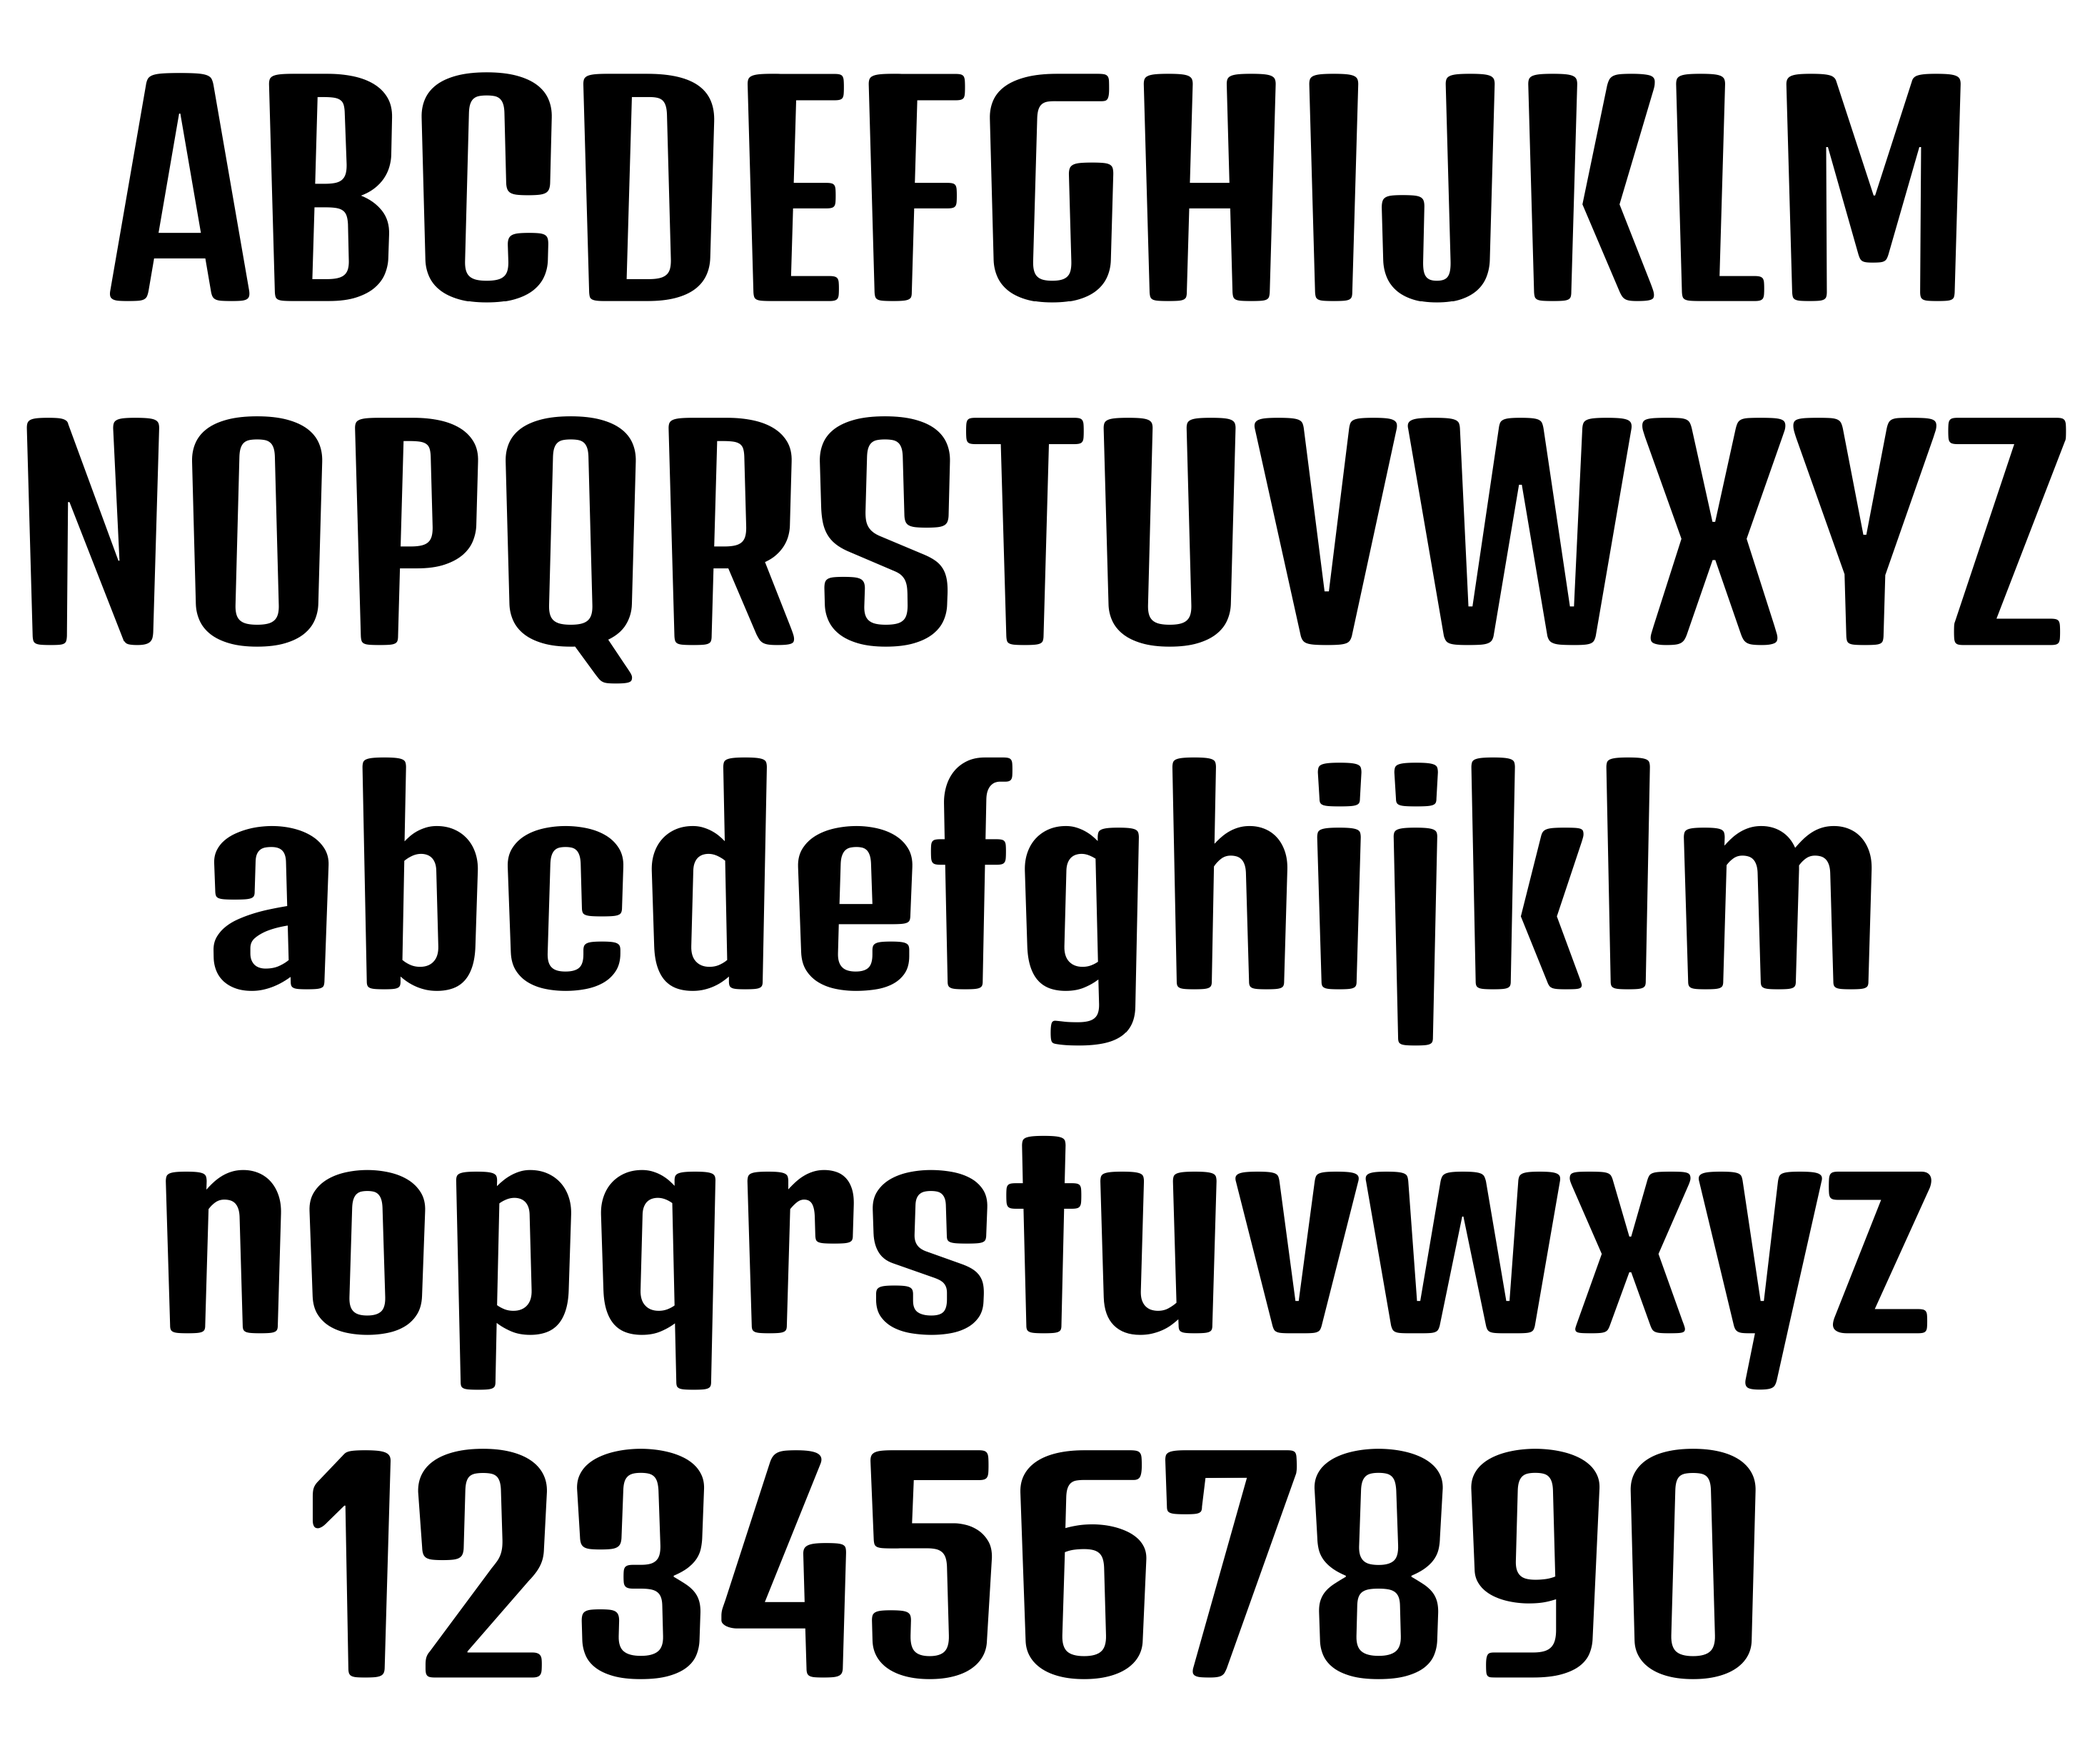
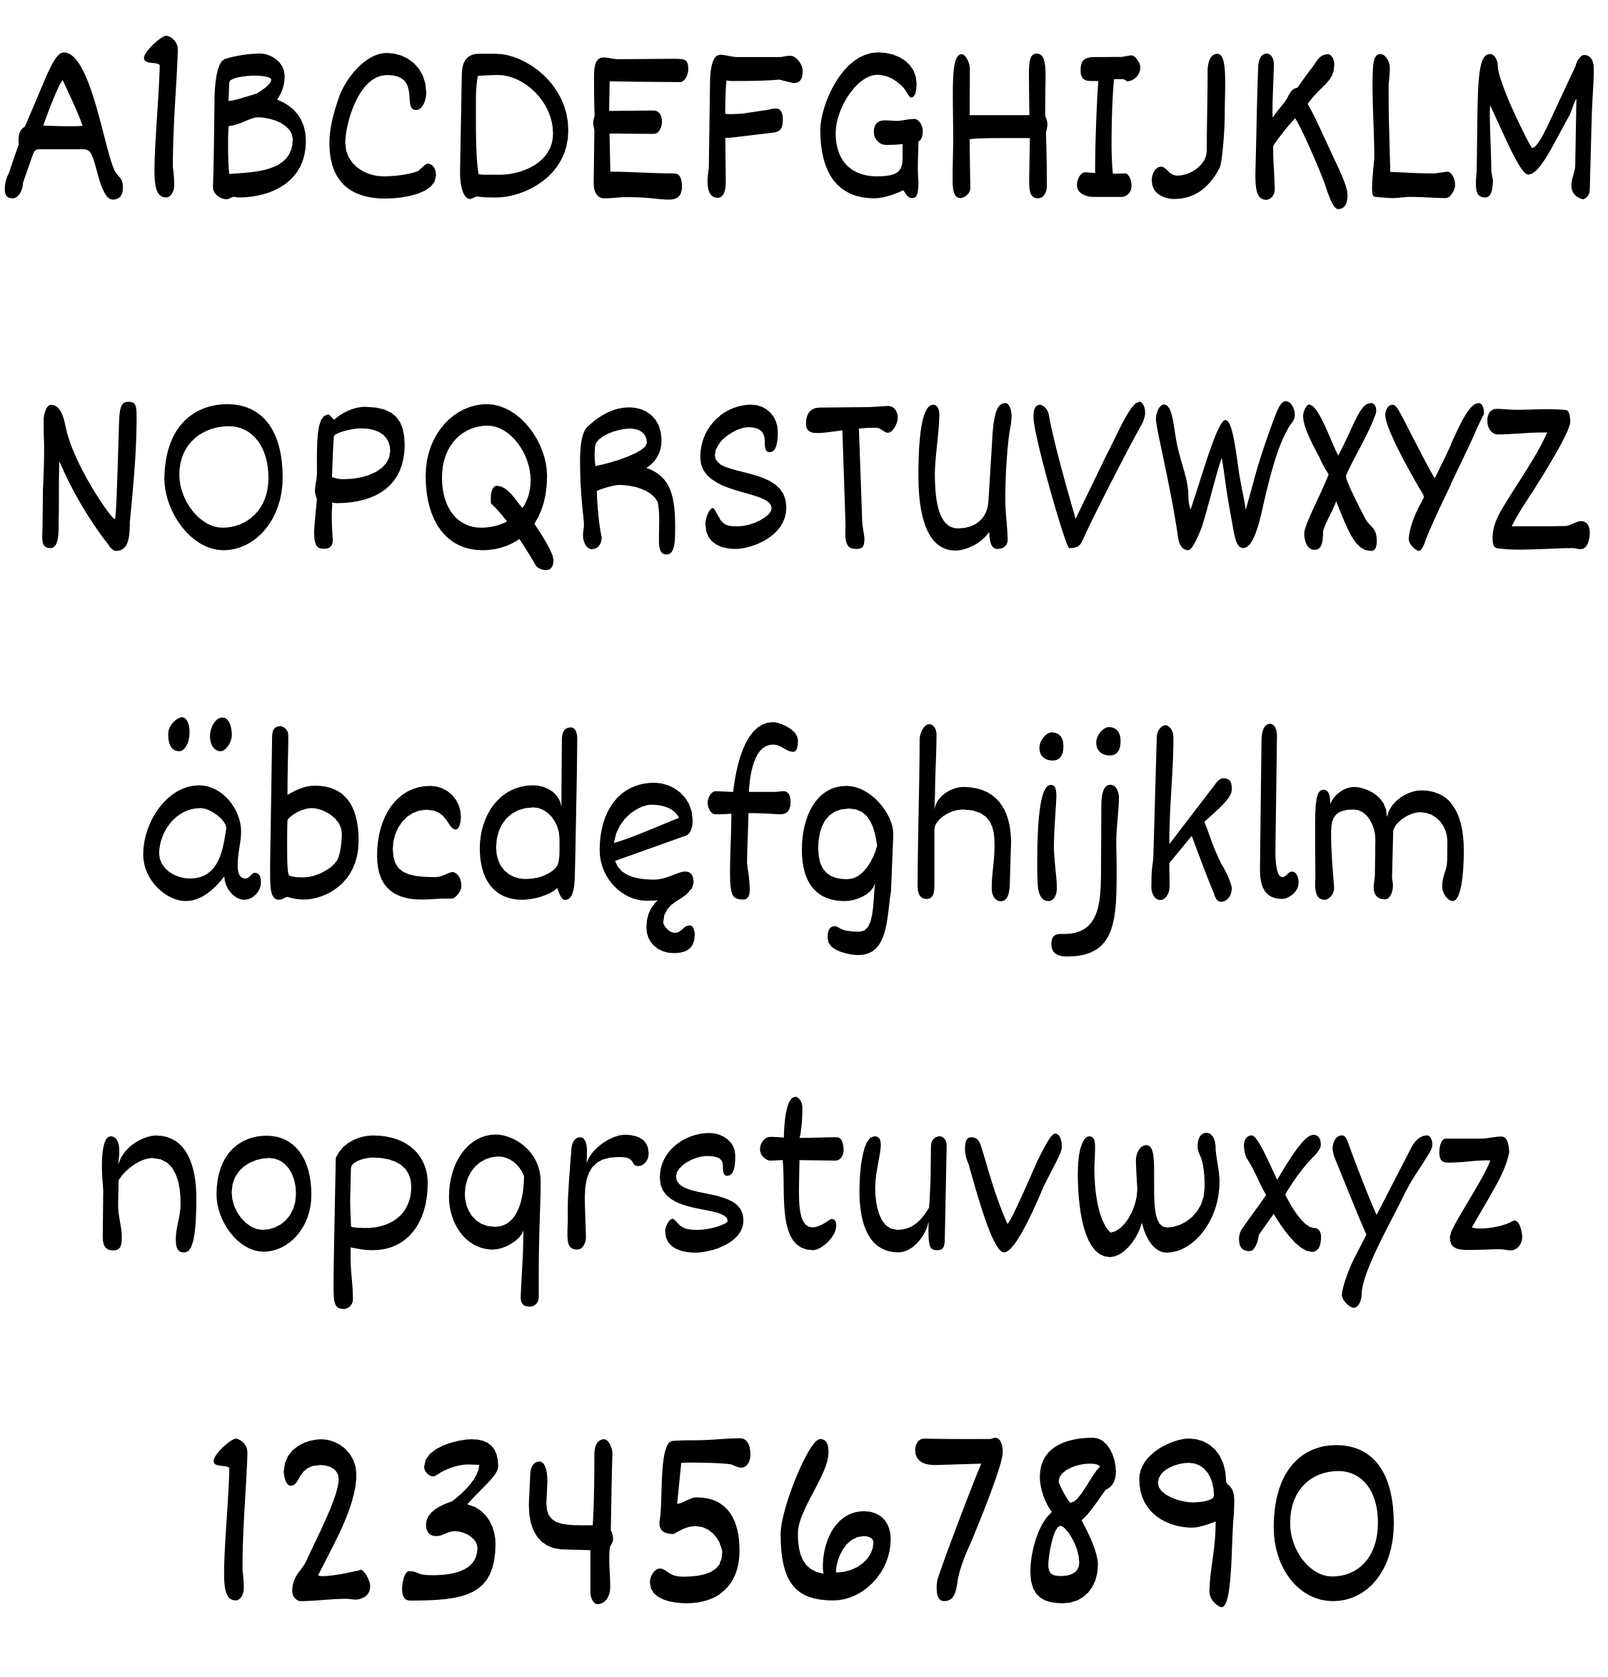
Readme + documentation updated

diff --git a/README.md b/README.md
@@ -2,28 +2,12 @@
 
 ![Sample Image](documentation/image1.png)
 
-Denk is a medium contrast display sans serif. It was inspired by a hand painted German sign. Inder has been carefully adjusted to the restrictions of the screen. Despite having display characteristics Denk can be used in a wide range of sizes.
-
-Denk One is a Unicode typeface family that supports languages that use the Latin script and its variants, and could be expanded.
-
-More specifically, this release supports the following codepages: 
-Latin-1, Latin-2, Turkish, Windows Baltic, Windows Vietnamese, Macintosh Character Set
-
-The following Unicode ranges are supported:
-Basic Latin, Latin-1 Supplement, Latin Extended-A, Latin Extended-B, IPA Exetnsions, 
-Spacing Modifier letters, Combining Diacritical Marks, Greek, Devanagari, 
-Latin Extended Additional, General Puctuation, Superscripts and Subscripts, 
-Currency Symbols, Letterlike Symbols, Number Forms, Arrows, Mathematical Operators, 
-Geometric Shapes, Miscelanious Symbols, Dingbats, Alphabetic presentation forms
+Dekko’s personality is both warm and casual. It originated with Modular InfoTech's 4948, and was modified to feel more written and regular in appearance and weight. The inter-letter spacing of the design is now wider, allowing for it to be used at smaller sizes on screens. Dekko also comes with a complete set of Latin which matches the Devanagari in weight and and size, and originates with Short Stack. Both the Devanagari and the Latin are based on written forms, and their stroke contrast has thick horizontals. The pen angles traditionally associated with Devanagari has some diagonal stress, but here the Latin script uses a vertical stress.
 
 ![Sample Image](documentation/image2.png)
 ![Sample Image](documentation/image3.png)
 
 ## Authors
-
-N: Irina Smirnova
-E: irina.v.sm@gmail.com
-D: Designer
 
 N: Eben Sorkin
 E: sorkineben@gmail.com
